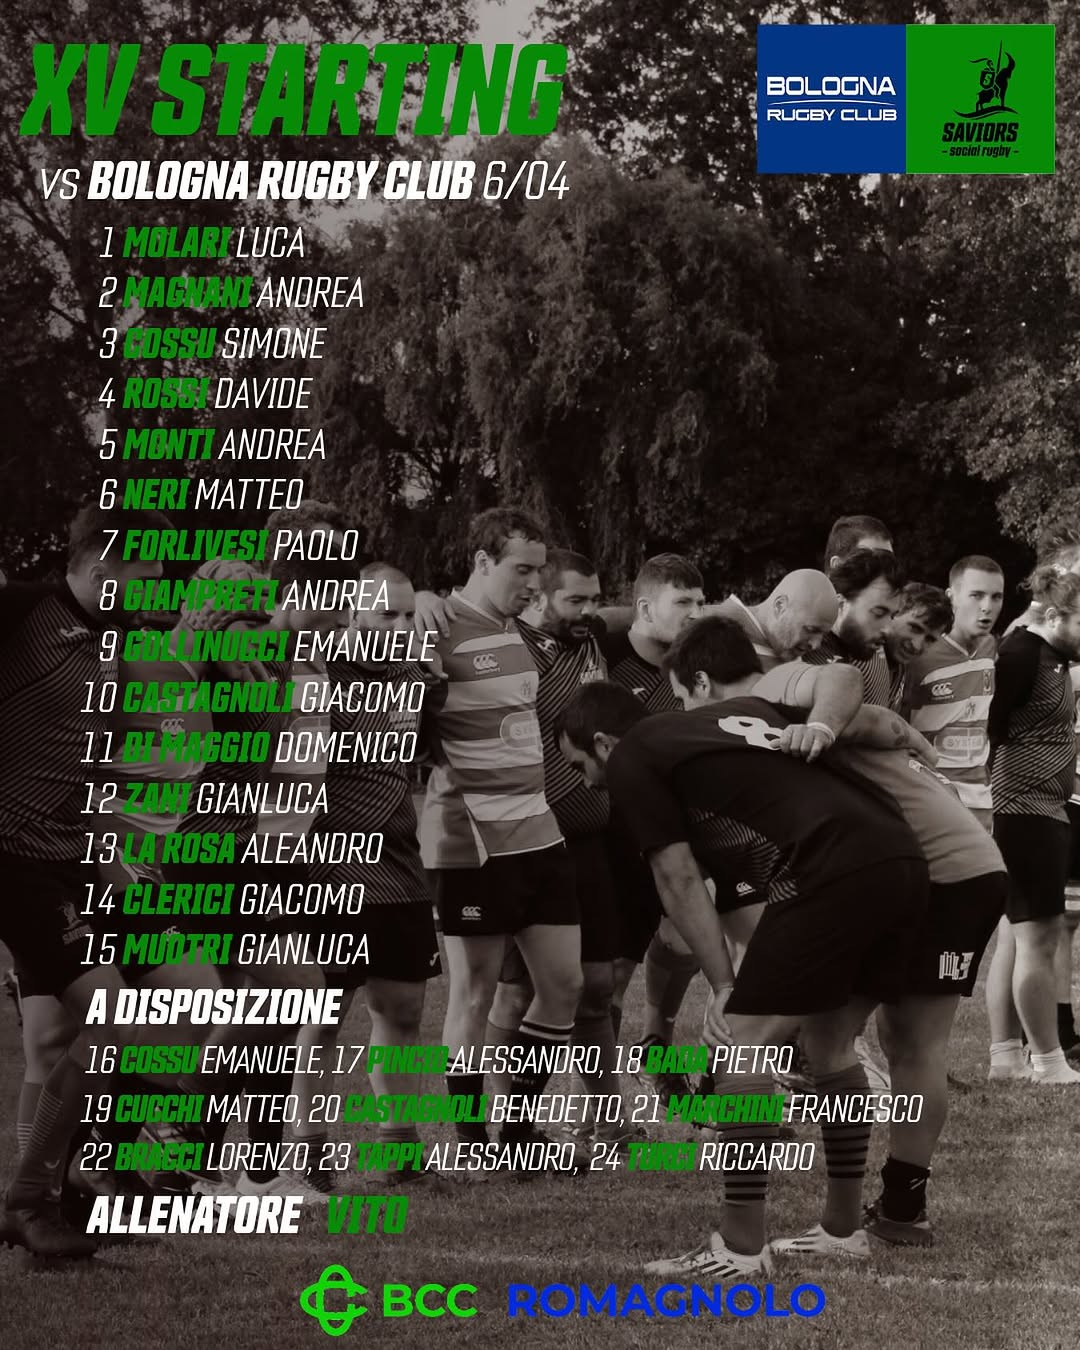
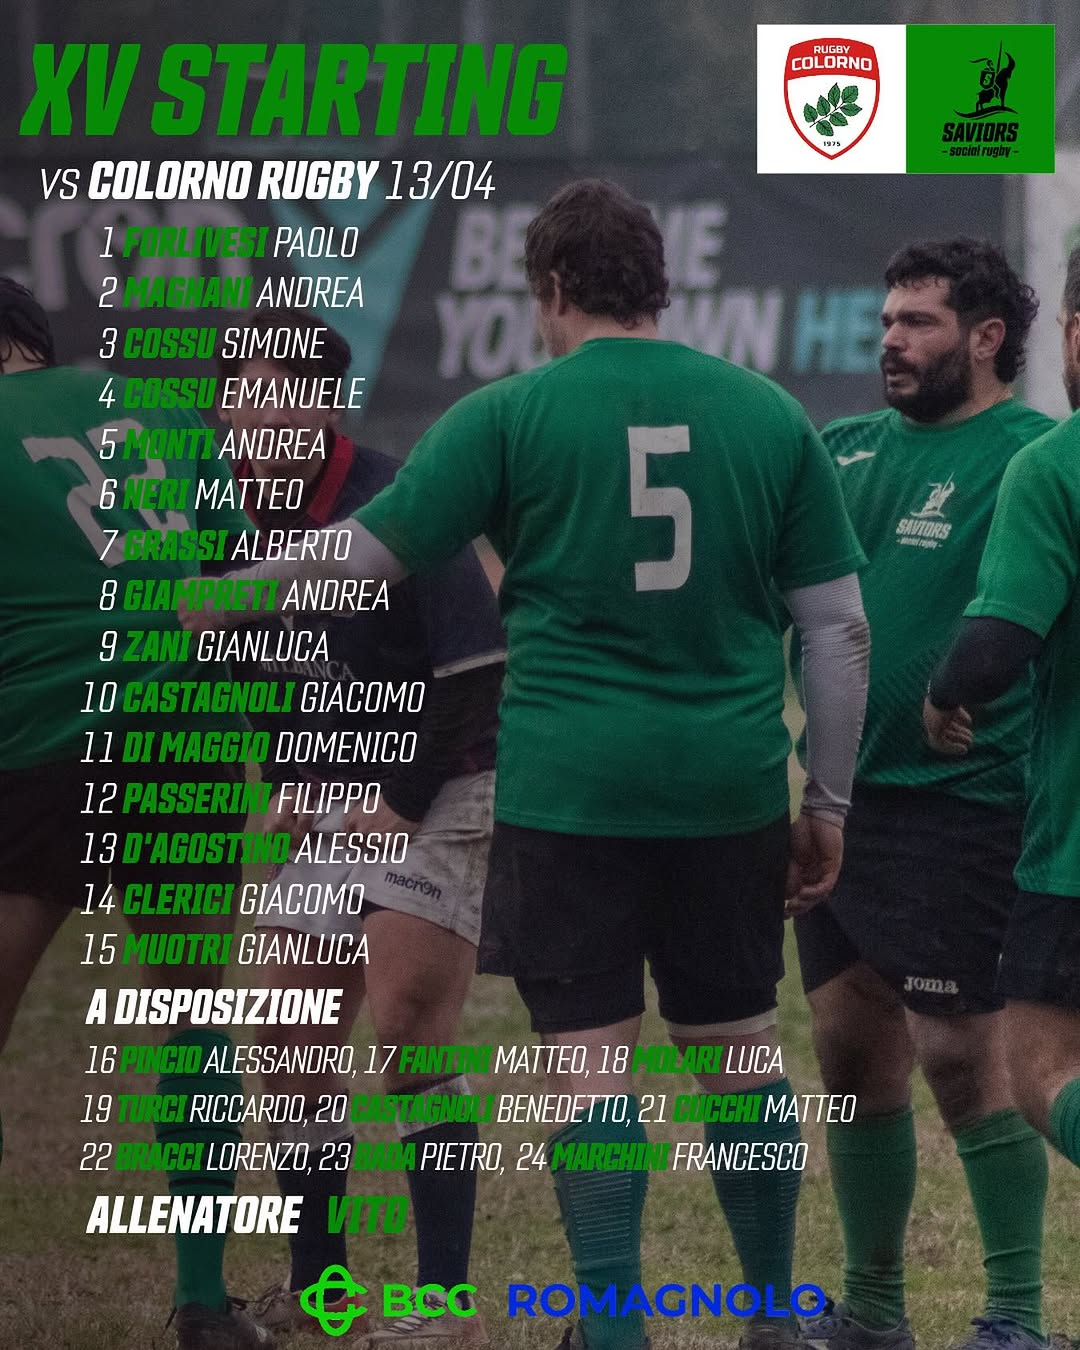
update

diff --git a/content/posts/championship/20242025/index.md b/content/posts/championship/20242025/index.md
@@ -21,13 +21,13 @@ weight: 3
 
 |     | Team                         | Punti | G/V/P/S  | Pt. fatti | Pt. subiti | Mt. fatte | Diff Pt. |
 | --- | ---------------------------- | ----- | -------- | --------- | ---------- | --------- | -------- |
-| 1   | **Saviors Social Rugby ASD** | 32    | 8/7/0/1  | 234       | 121        | 28        | 113      |
-| 2   | Modena Rugby 1965            | 29    | 10/5/1/4 | 255       | 178        | 37        | 77       |
-| 3   | Bologna Rugby Club           | 25    | 9/5/1/3  | 177       | 192        | 23        | -15      |
-| 4   | Ravenna Rugby FC             | 24    | 8/4/1/3  | 221       | 136        | 33        | 85       |
-| 5   | Rugby Colorno 1975           | 24    | 9/4/1/4  | 221       | 167        | 31        | 54       |
-| 6   | Rugby Guastalla 2008         | 12    | 9/2/0/7  | 129       | 256        | 17        | -127     |
-| 7   | ASD Rugby Rimini             | 13    | 9/2/0/7  | 122       | 309        | 16        | -187     |
+| 1   | **Saviors Social Rugby ASD** | 37    | 10/8/0/2 | 275       | 150        | 33        | 125      |
+| 2   | Ravenna Rugby FC             | 34    | 10/6/1/3 | 278       | 168        | 41        | 110      |
+| 3   | Bologna Rugby Club           | 30    | 10/6/1/3 | 206       | 205        | 27        | 1        |
+| 4   | Modena Rugby 1965            | 29    | 10/5/1/4 | 255       | 178        | 37        | 77       |
+| 5   | Rugby Colorno 1975           | 20    | 11/4/1/6 | 236       | 224        | 34        | 12       |
+| 6   | Rugby Guastalla 2008         | 17    | 11/3/0/8 | 169       | 303        | 22        | -134     |
+| 7   | ASD Rugby Rimini             | 13    | 10/2/0/8 | 141       | 332        | 19        | -191     |
 
 ## Calendario
 
@@ -45,7 +45,7 @@ weight: 3
 | 1ᵃ Ritorno | 16/02/2025 | 14:30  | **Saviors Social Rugby ASD** | Modena Rugby 1965 nr. 2      | Via Roversano 2815, 47522 - Cesena (FC) |
 | 2ᵃ Ritorno | 02/03/2025 |        | RIPOSO                       |                              |                                         |
 | 3ᵃ Ritorno | 09/03/2025 | 14:30  | **Saviors Social Rugby ASD** | Rugby Guastalla 2008         | Via Roversano 2815, 47522 - Cesena (FC) |
-| 4ᵃ Ritorno | 23/03/2025 | 14:30  | Rugby Colorno 1975 nr.3      | **Saviors Social Rugby ASD** | Campo Pavesi - Colorno                  |
+| 4ᵃ Ritorno | 13/04/2025 | 13:00  | Rugby Colorno 1975 nr.3      | **Saviors Social Rugby ASD** | Stadio Gino Maini - Colorno             |
 | 5ᵃ Ritorno | 06/04/2025 | 15:30  | Bologna Rugby Club           | **Saviors Social Rugby ASD** | Bonori - Bologna                        |
 | 6ᵃ Ritorno | 27/04/2025 | 15:30  | **Saviors Social Rugby ASD** | ASD Rimini Rugby             | Via Roversano 2815, 47522 - Cesena (FC) |
 | 7ᵃ Ritorno | 04/05/2025 | 15:30  | **Saviors Social Rugby ASD** | Ravenna Rugby                | Via Roversano 2815, 47522 - Cesena (FC) |

diff --git a/content/posts/next-match/index.md b/content/posts/next-match/index.md
@@ -1,5 +1,5 @@
 ---
-title: "Prossimo Match:<br/>Rugby Colorno vs Saviors Social Rugby"
+title: "Prossimo Match:<br/>Saviors Social Rugby vs ASD Rimini Rugby"
 date: "2024-12-08"
 sharingLinks:
   - facebook
@@ -7,7 +7,7 @@ sharingLinks:
   - telegram
 tags:
   - Saviors
-  - Colorno
+  - Rimini
 showDate: false
 showHeadingAnchors: false
 showHero: false
@@ -17,8 +17,8 @@ hide: true
 
 <!-- ![](./team.jpg) -->
 
-| Giornata              | Data       | Orario | Casa                    | Ospiti                       | Indirizzo              |
-| --------------------- | ---------- | ------ | ----------------------- | ---------------------------- | ---------------------- |
-| 4ᵃ Ritorno (Recupero) | 23/03/2025 | 14:30  | Rugby Colorno 1975 nr.3 | **Saviors Social Rugby ASD** | Campo Pavesi - Colorno |
+| Giornata   | Data       | Orario | Casa                         | Ospiti           | Indirizzo                               |
+| ---------- | ---------- | ------ | ---------------------------- | ---------------- | --------------------------------------- |
+| 6ᵃ Ritorno | 27/04/2025 | 15:30  | **Saviors Social Rugby ASD** | ASD Rimini Rugby | Via Roversano 2815, 47522 - Cesena (FC) |
 
-![](./featured.jpg)
+<!-- ![](./featured.jpg) -->

diff --git a/content/posts/last-match/index.md b/content/posts/last-match/index.md
@@ -1,5 +1,5 @@
 ---
-title: "Ultimo Match:<br/>Bologna Rugby Club vs Saviors Social Rugby (29 - 13)"
+title: "Ultimo Match:<br/>Rugby Colorno vs Saviors Social Rugby (0 - 28)"
 date: "2024-12-08"
 sharingLinks:
   - facebook
@@ -7,7 +7,7 @@ sharingLinks:
   - telegram
 tags:
   - Saviors
-  - Bologna
+  - Colorno
 showDate: false
 showHeadingAnchors: false
 showHero: false
@@ -17,8 +17,8 @@ hide: true
 
 ![](./featured.jpg)
 
-| Giornata   | Data       | Orario | Casa               | Ospiti                       | Indirizzo        |
-| ---------- | ---------- | ------ | ------------------ | ---------------------------- | ---------------- |
-| 5ᵃ Ritorno | 06/04/2025 | 13:00  | Bologna Rugby Club | **Saviors Social Rugby ASD** | Bonori - Bologna |
+| Giornata              | Data       | Orario | Casa                    | Ospiti                       | Indirizzo                   |
+| --------------------- | ---------- | ------ | ----------------------- | ---------------------------- | --------------------------- |
+| 4ᵃ Ritorno (Recupero) | 13/04/2025 | 13:00  | Rugby Colorno 1975 nr.3 | **Saviors Social Rugby ASD** | Stadio Gino Maini - Colorno |
 
 ![](./team.jpg)
